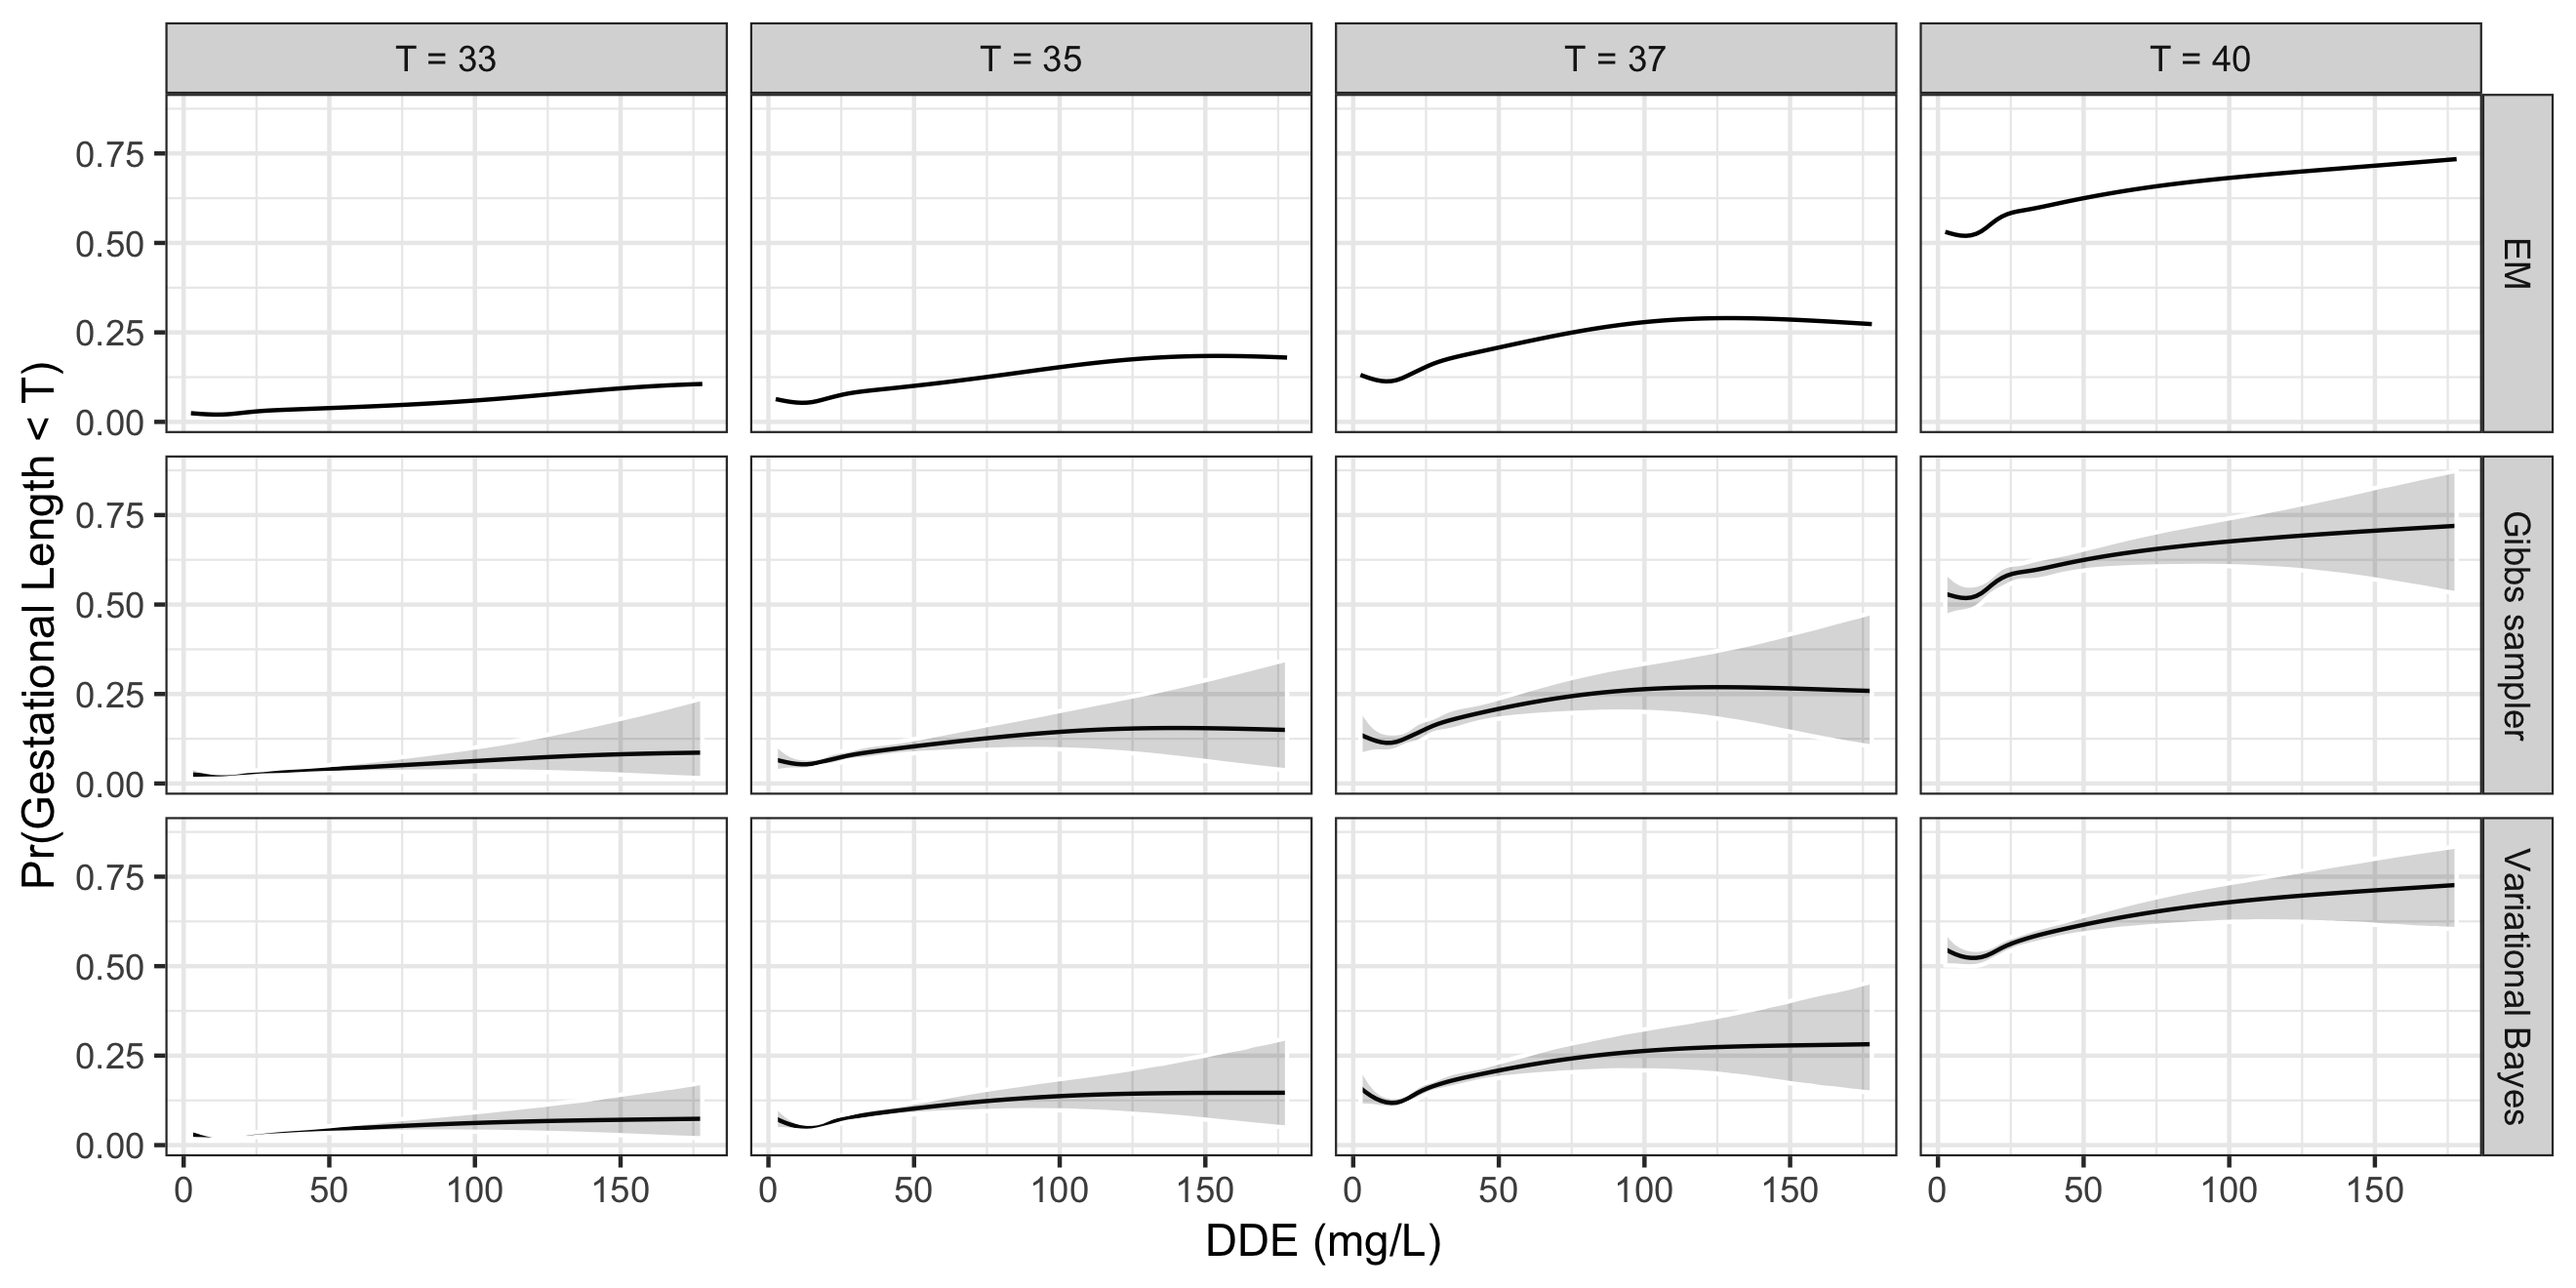
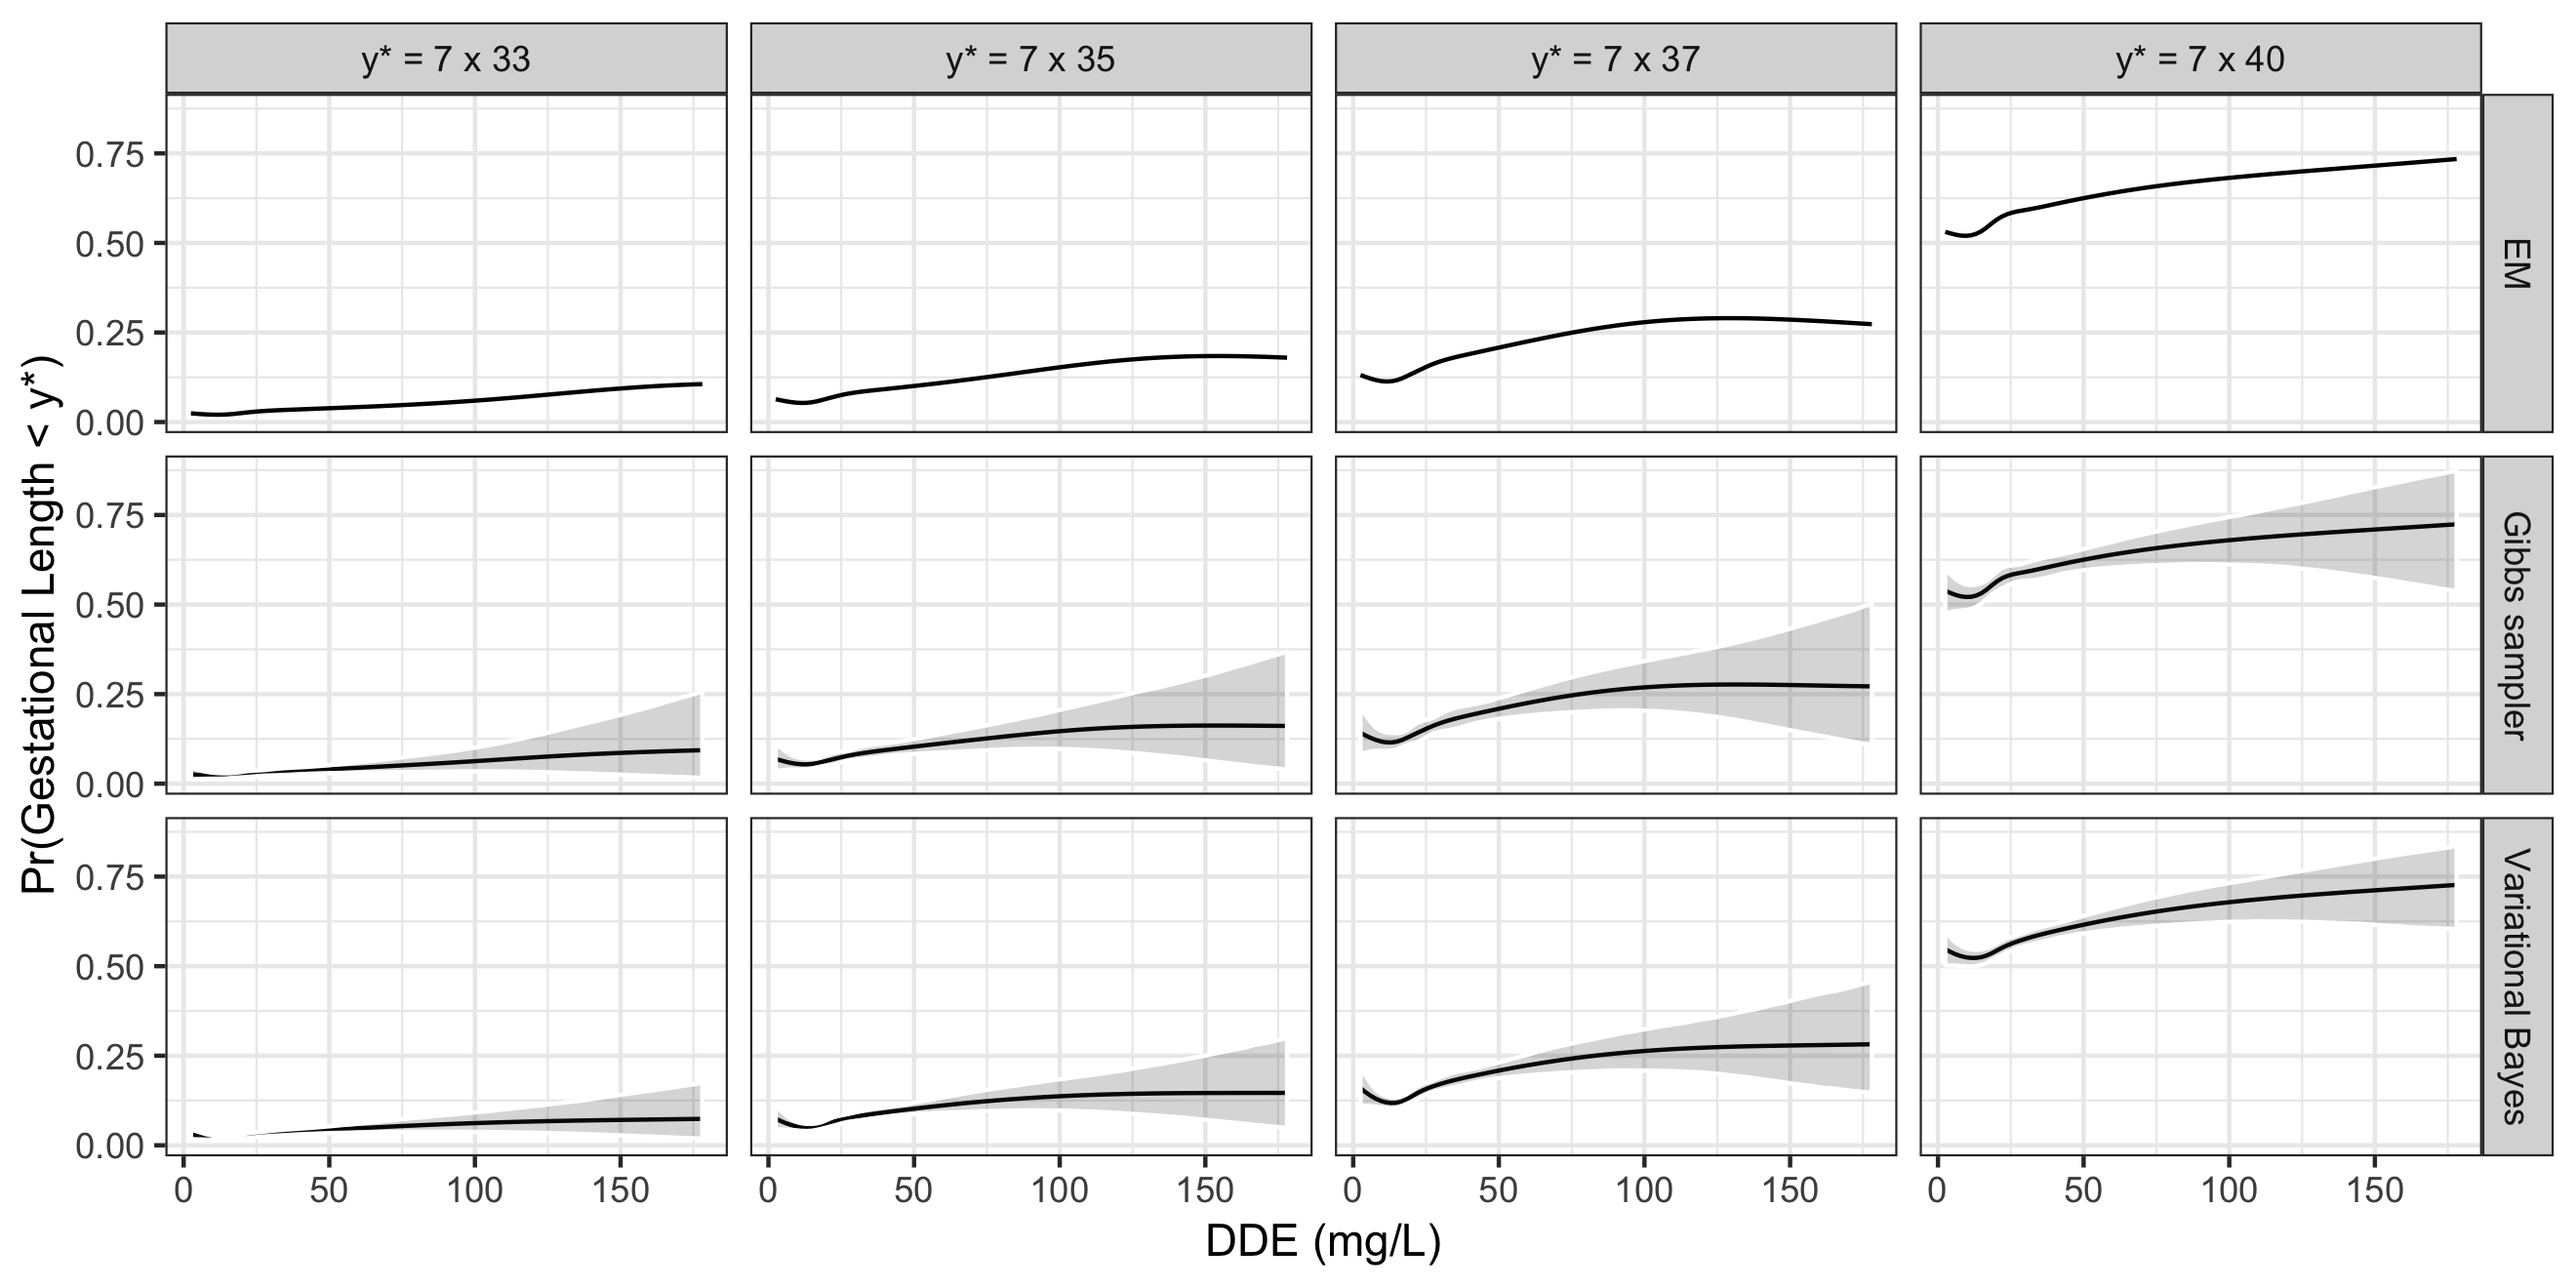
Modifications

diff --git a/Tutorial/tutorial.md b/Tutorial/tutorial.md
@@ -28,7 +28,8 @@ The `dde` dataset can be downloaded [from this respository](dde.RData). It conta
 The dataset comprises a total of `2312` observations. The `DDE` is clearly related to the gestational age at delivery, as suggested by the scatterplot shown below; the smooth line is a loess estimate. 
 
 ```r
-ggplot(data=dde, aes(x=DDE,y=GAD)) + geom_point(alpha=.5, cex=.5) + geom_smooth( method="loess", span = 1, col=1) + xlab("DDE (mg/L)") + ylab("Gestational age at delivery") + theme_bw() ggsave("application_img/plot1.png",width=8,height=4)
+ggplot(data=dde, aes(x=DDE,y=GAD)) + geom_point(alpha=.5, cex=.5) + geom_smooth( method="loess", span = 1, col=1) + xlab("DDE (mg/L)") + ylab("Gestational age at delivery") + theme_bw() 
+ggsave("application_img/plot1.png",width=8,height=4)
 ```
 
 ![](application_img/plot1.png)
@@ -72,8 +73,8 @@ We first run the Gibbs sampling using the command `LSBP_Gibbs` of the `LSBP` pac
 
 ```r
 set.seed(10) # The seed is setted so that the Gibbs sampler is reproducible.
-fit_Gibbs   <- LSBP_Gibbs(model_formula, data=dde_scaled, H=H, prior=prior,
-                          control=control_Gibbs(R=R,burn_in=burn_in), verbose=TRUE)
+fit_Gibbs   <- LSBP_Gibbs(model_formula, data=dde_scaled, H=H, prior=prior, 
+                          control=control_Gibbs(R=R,burn_in=burn_in,method_init="random"), verbose=TRUE)
 ```
 
 ### ECM algorithm
@@ -238,8 +239,7 @@ data.plot2 <- data.frame(
 
 ggplot(data=data.plot) + geom_line(aes(x=sequenceGAD,y=prediction)) + facet_grid(Algorithm~ DDE.points,scales="free_y") + ylab("Density") + geom_ribbon(alpha=0.4,aes(x=sequenceGAD,ymin=lower,ymax=upper))  +xlab("Gestational age at delivery") + geom_histogram(data=data.plot2,aes(x=GAD,y=..density..),alpha=0.2,bins=25) + theme_bw()
 ggsave("application_img/plot2.png",width=8.8,height=4.4)
-ggsave("application_img/plot2.pdf",width=8.8,height=4.4)
-```
+``````
 
 ![](application_img/plot2.png)
 
@@ -267,7 +267,7 @@ ECM_cdf   <- c(predict(fit_ECM,type="cdf",threshold=(33*7 - mean(dde$GAD))/sd(dd
 data.cdf  <- data.frame(DDE=rep(sequenceDDE,3*4)*sd(dde$DDE) + mean(dde$DDE),
                         Algorithm=rep(c("EM","Gibbs sampler","Variational Bayes"),each=4*length(sequenceDDE)),
                         CDF  = c(ECM_cdf,colMeans(gibbs_cdf),colMeans(vb_cdf)),
-                        Threshold = rep(rep(c("T = 33","T = 35","T = 37","T = 40"),each=length(sequenceDDE)),3),
+                        Threshold = rep(rep(c("y* = 7 x 33","y* = 7 x 35","y* = 7 x 37","y* = 7 x 40"),each=length(sequenceDDE)),3),
                         Upper = c(rep(NA,4*length(sequenceDDE)),
                                   apply(gibbs_cdf,2,function(x) quantile(x,0.975)),
                                   apply(vb_cdf,2,function(x) quantile(x,0.975))),
@@ -275,7 +275,7 @@ data.cdf  <- data.frame(DDE=rep(sequenceDDE,3*4)*sd(dde$DDE) + mean(dde$DDE),
                                   apply(gibbs_cdf,2,function(x) quantile(x,0.025)),
                                   apply(vb_cdf,2,function(x) quantile(x,0.025))))
 
-ggplot(data=data.cdf,aes(x=DDE,y=CDF,ymin=Lower,ymax=Upper)) + geom_line() + facet_grid(Algorithm~Threshold)+ xlab("DDE (mg/L)")+ylab("Pr(Gestational Length < T)") + geom_ribbon(alpha=0.2,col="white") + theme_bw()
+ggplot(data=data.cdf,aes(x=DDE,y=CDF,ymin=Lower,ymax=Upper)) + geom_line() + facet_grid(Algorithm~Threshold)+ xlab("DDE (mg/L)")+ylab("Pr(Gestational Length < y*)") + geom_ribbon(alpha=0.2,col="white") + theme_bw()
 ggsave("application_img/plot3.png",width=8.8,height=4.4)
 ggsave("application_img/plot3.pdf",width=8.8,height=4.4)
 ```
